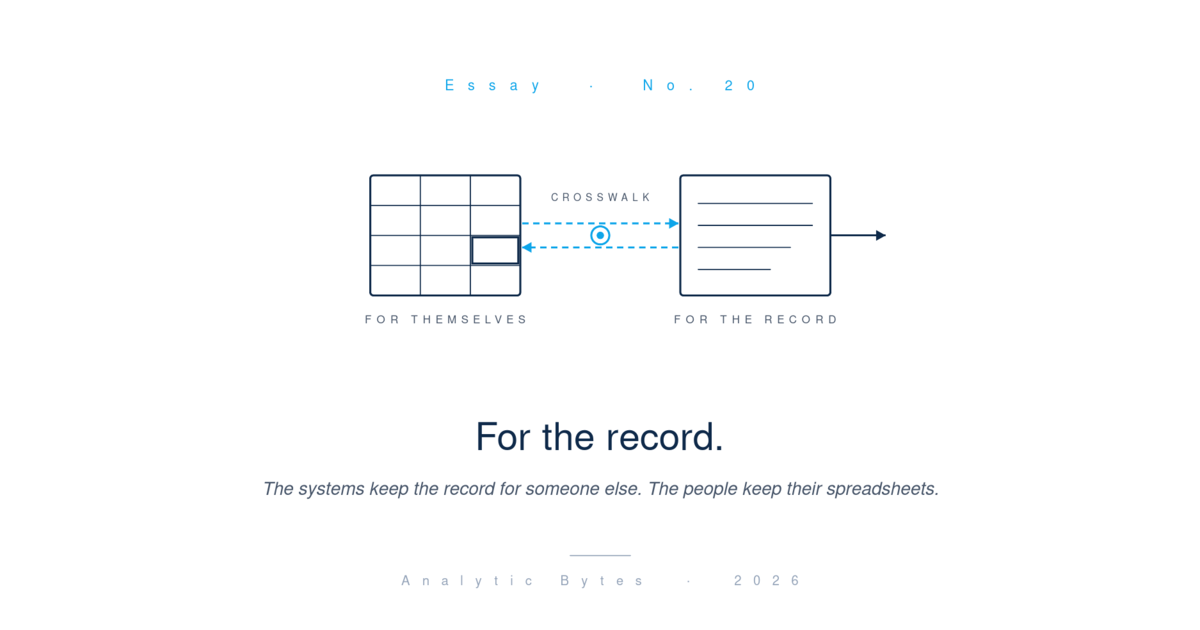
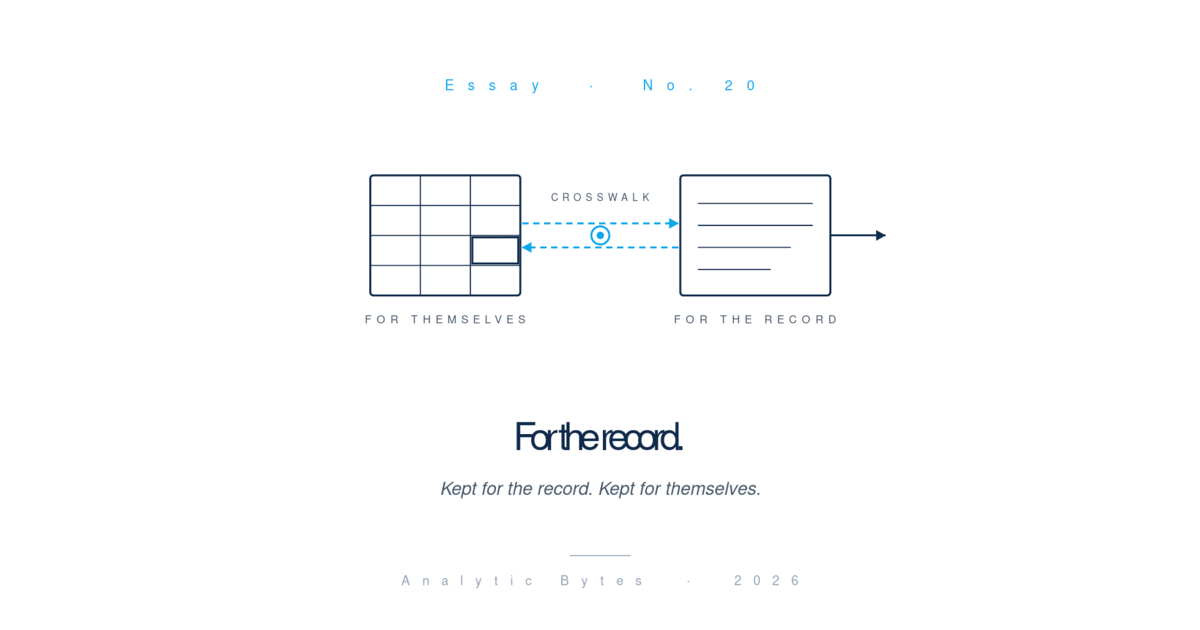
For the record: cover subtitle to 41 chars; MetaNote trimmed 662->96 words against the new rule (the verification log moves to the source pack)

Changed region(s): [[0.2158, 0.754, 0.7708, 0.7841], [0.4008, 0.6635, 0.6167, 0.7238]]

diff --git a/app/library/essays.tsx b/app/library/essays.tsx
@@ -10138,7 +10138,7 @@ export const ESSAYS: Essay[] = [
         </SeeAlso>
 
         <MetaNote>
-          External sources were verified on 2026-09-15 against the live pages for Anthropic (Cherry, Peng, Jiao, Leder and Chang, June 3, 2026), Healthcare IT News (Siwicki, August 7, 2026, reporting a Carta Healthcare survey), dbt Labs (State of Analytics Engineering 2026, fielded December 2025 to February 2026), Virtuous and Fundraising.AI (346 nonprofits, December 2025), Databricks (Mherabi, May 13, 2026), CIO.com (Gandhi, June 22, 2026), Snow (August 27, 2026), Ustimov (Decision Spine, August 21, 2026) and Durgin (Think Solve Repeat, September 13, 2026; added after the Standard pass at Chaitanya&rsquo;s pointer, not yet in the knowledge repo). Novid Parsi (EdTech: Focus on Higher Education) was read live on 2026-09-25 for the shadow-IT lineage; author, date and both claims confirmed, and the passage paraphrases rather than quotes because the article&rsquo;s key sentences are spoken by a named interviewee whose attribution was not separately checked. Matt Hennessey&rsquo;s post was read in full on 2026-09-25 in the browser, after the automated fetcher was refused by the site&rsquo;s robots file; author, title, date of 25 August 2026 and both claims were confirmed against the page, and the quoted sentence is verbatim. The repo record kr-2026-08-25-002 had paraphrased it accurately. Because LinkedIn Pulse can be edited without version history, a full text capture is filed at _working/snapshot_hennessey_devodata_2026-09-25.md per the snapshot-durability rule. The MIT Sloan Management Review piece was read in full on 2026-09-16 (Grossman, May 28, 2026); the claim in the text was narrowed to the survey figure the article actually reports, and the survey is the author&rsquo;s own firm&rsquo;s, run with The Harris Poll, which is stated in the text. Scott is cited from the repo entry, which was itself verified against secondary sources; this essay paraphrases chapter 9 and quotes nothing, and chapter-level attribution is accepted for the paraphrase (Chaitanya, 2026-09-16). Two rounds of external adversarial review (GPT, 2026-09-15) shaped v0.4 and v0.5: trusted surface distinguished from authoritative truth, the round trip made central, the model-proposes / human-confirms / code-preserves division stated, the seam versioned, a write boundary added, the second half compressed, the funder ask reversed. The keep-the-spreadsheet-and-carry-it-in move and the systems-box picture are Chaitanya&rsquo;s, from the drafting pours of 2026-09-15. The inside-or-outside discriminator in Where the trust went is also hers, from an operator review of a school-network platform portfolio on 2026-09-18 and from her own seat at a New York City charter network, stated here in de-identified form with no client or engagement specifics. A first version of that passage turned on whether a number was extracted and how often; she corrected it, because attendance and discipline were recorded outside the system and uploaded in retrospect while the district and billing systems required a credentialed login. The corrected discriminator is whether an obligation can be discharged from outside a platform or only from inside it. A scoped Gate 5 run on 2026-09-18 verified the Civil Rights Data Collection against the Department of Education&rsquo;s own page: a mandatory, generally biennial survey of all public school districts, administered by the Office for Civil Rights, covering student discipline alongside enrollment and school climate. The district system is described generically rather than named, and the passage carries no claim about how many states require classroom observations, because that prevalence was not checkable at reasonable cost and the argument does not need it. Seat examples reuse details already published in <I>The contracts between systems</I>, <I>The numbers don&rsquo;t agree because the words don&rsquo;t</I> and <I>Extending the gates</I>. The opening is a reconciliation Chaitanya ran; the authorizer and the funder are described by role rather than named, consistent with every other seat in this essay. Outside-source naming is split deliberately: the list in <I>What the standard advice assumes away</I> names where different kinds of context live and is not a claim about what she pulled, while the list in <I>The outside</I> is narrowed to the state education department&rsquo;s reporting and the National Student Clearinghouse, which are the two she worked with and the only two that bear on an enrollment question.
+          Written September 2026 for the Analytic Bytes Library. No employer, client, authorizer or funder is named; every seat is described by role and in de-identified form, per standing practice. The opening reconciliation and the inside-or-outside discriminator are from the author&rsquo;s own record. External sources were verified against their live pages in September 2026, and the verification log, text snapshots and review rounds are held in the piece&rsquo;s source pack. One claim was cut rather than carried: how many states require classroom observations was not checkable at reasonable cost, and the argument does not need it.
         </MetaNote>
       </>
     ),
